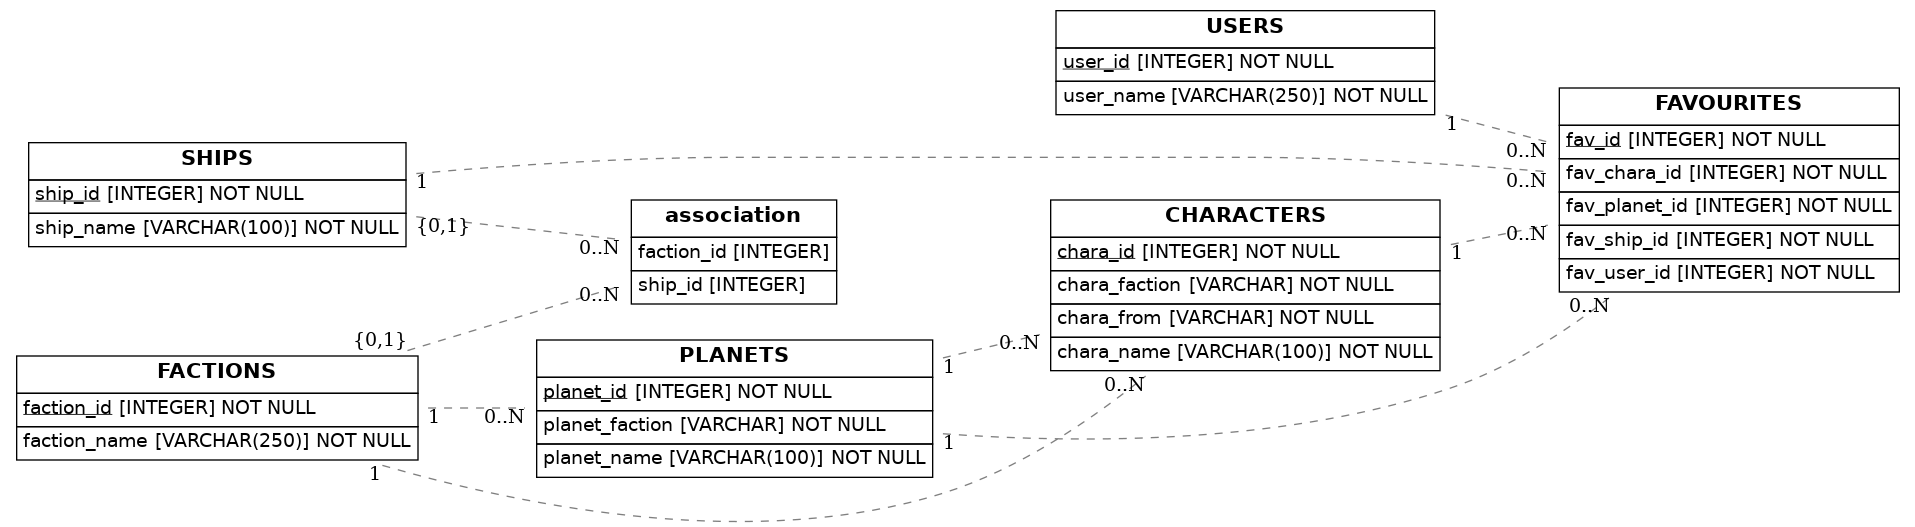
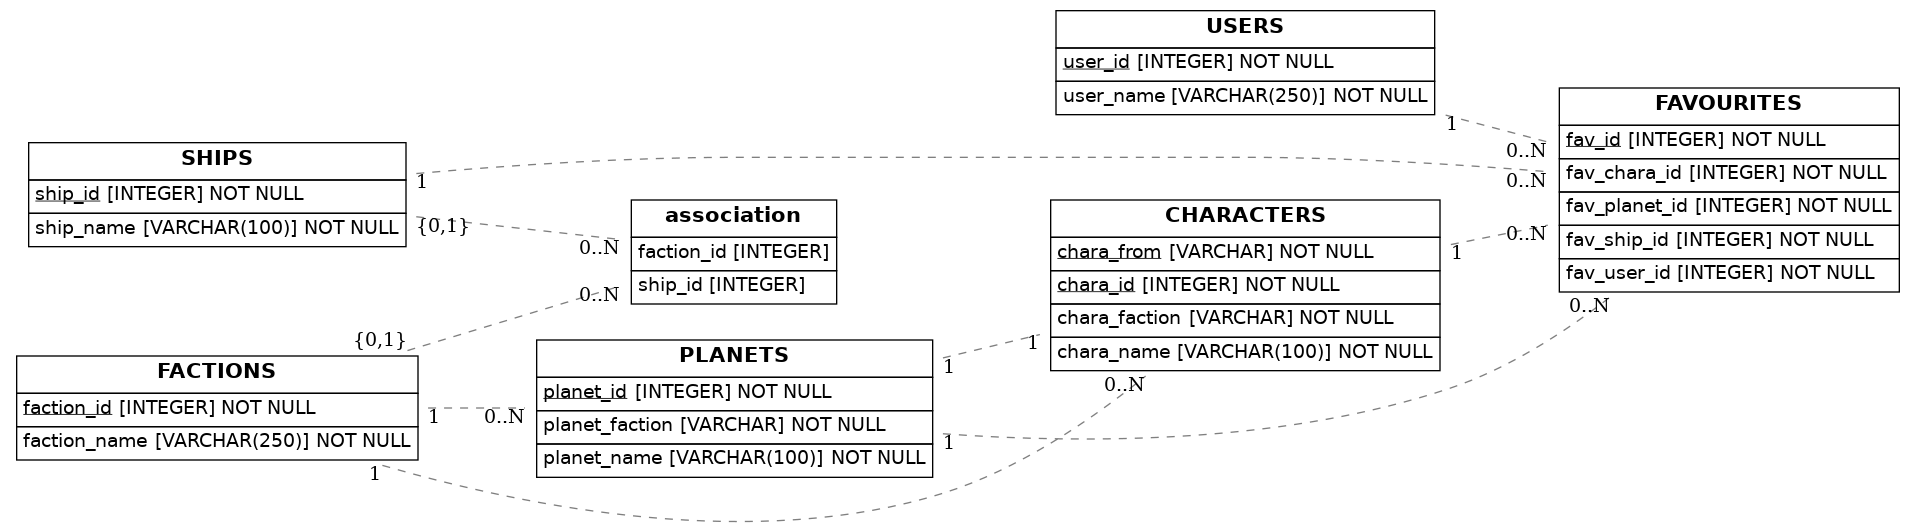
Fix 1:1

Changed region(s): [[0.5546, 0.4554, 0.7394, 0.6376], [0.5238, 0.6376, 0.5546, 0.6679]]

diff --git a/src/models.py b/src/models.py
@@ -40,11 +40,11 @@ class Character(Base):
     __tablename__ = 'CHARACTERS'
     chara_id = Column(Integer, primary_key=True)
     chara_name = Column(String(100), nullable=False)
-    chara_from = Column(String, ForeignKey('PLANETS.planet_name'), nullable=False)
+    chara_from = Column(String, ForeignKey('PLANETS.planet_name'), primary_key=True, nullable=False)
     chara_faction = Column(String, ForeignKey('FACTIONS.faction_name'), nullable=False)
     
     chara_favourites = relationship('Favourite', back_populates='fav_character')
-    chara_fromPlanet = relationship('Planet', uselist=False, back_populates='planet_character')
+    # chara_fromPlanet = relationship('Planet', uselist=False, back_populates='planet_character')
     chara_team = relationship('Faction', uselist=False, back_populates='faction_chara')
 
 
@@ -56,7 +56,7 @@ class Planet(Base):
     planet_faction = Column(String, ForeignKey('FACTIONS.faction_id'), nullable=False)
     
     planet_favourites = relationship('Favourite', back_populates='fav_planet')
-    planet_character = relationship('Character', back_populates='chara_fromPlanet')
+    # planet_character = relationship('Character', back_populates='chara_fromPlanet')
     planet_from = relationship('Faction', back_populates='faction_planet')
 
 
